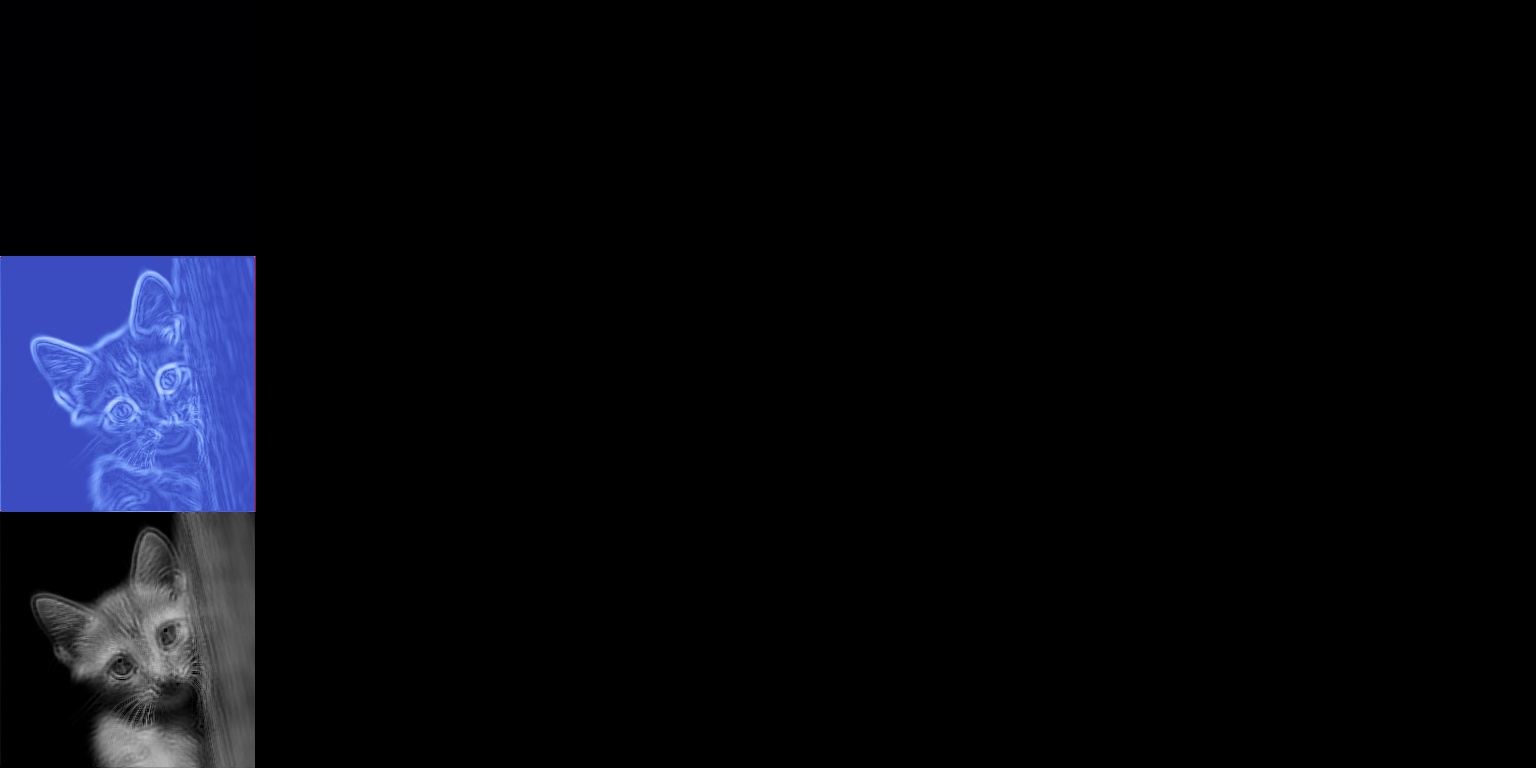
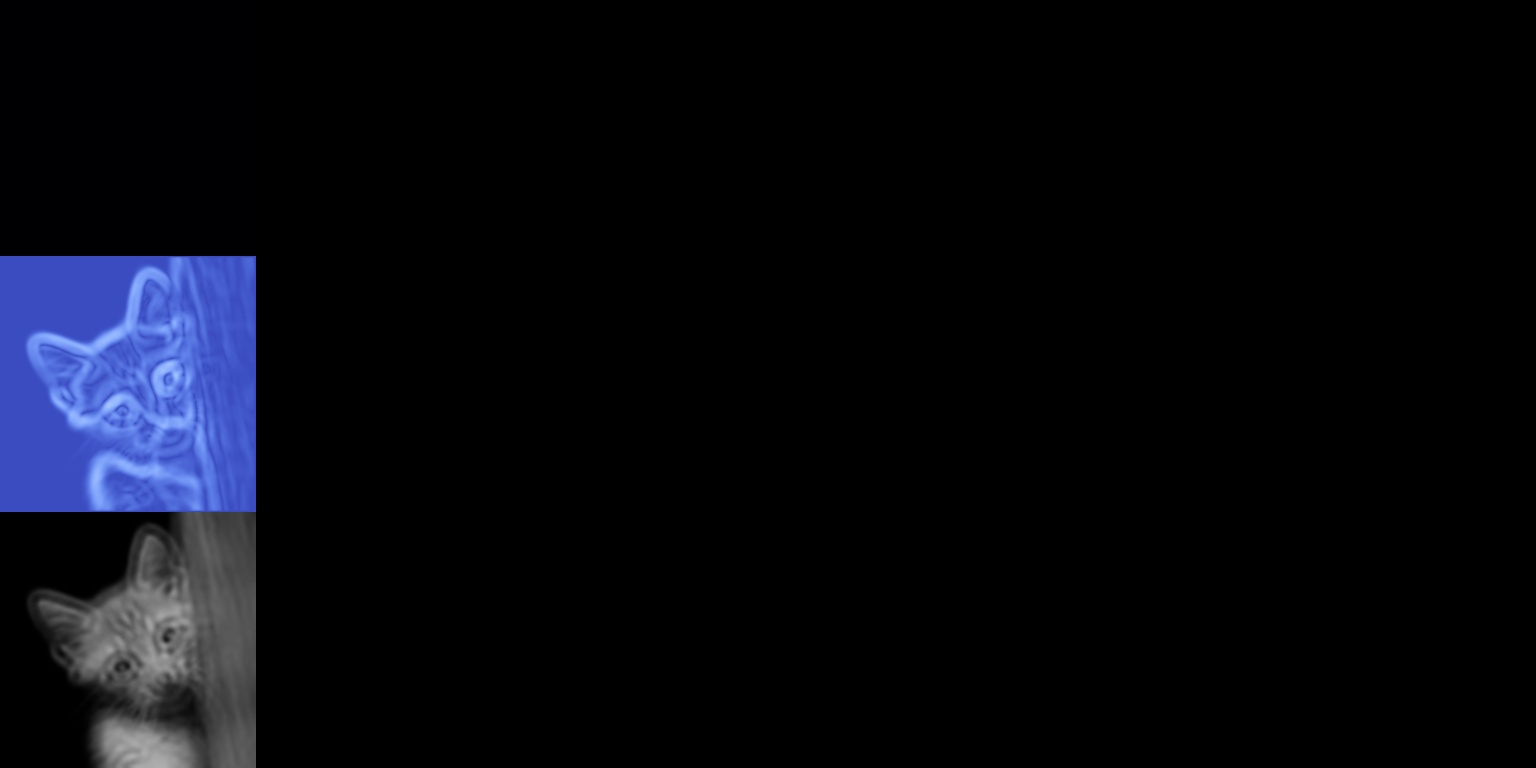
boundary_conditions_fix:rho_and_velocity_work

Changed region(s): [[0.0, 0.3438, 0.1562, 0.9375]]

diff --git a/numerical_solvers/solvers/LBM_NS_Solver.py b/numerical_solvers/solvers/LBM_NS_Solver.py
@@ -39,8 +39,8 @@ class LBM_NS_Solver(LBM_SolverBase):
             # self.Force.from_numpy(turb_numpy)
             
             # self.init_gaussian_force_field(1E-2, 0, 1)
-            self.apply_bb()
-            # self.apply_nee_bc()
+            # self.apply_bb()
+            self.apply_nee_bc()
             self.iterations_counter = self.iterations_counter +1
             # print(f"iterations: {iteration}")
             
@@ -62,16 +62,15 @@ class LBM_NS_Solver(LBM_SolverBase):
 
     @ti.kernel
     def collide_srt(self):
-        for i, j in ti.ndrange((1, self.nx - 2), (1, self.ny - 2)):
+        for i, j in ti.ndrange((1, self.nx - 1), (1, self.ny - 1)):
             for k in ti.static(range(9)):
                 feq = self.f_eq(i, j)
                 self.f_new[i, j][k] = (1 - self.omega_kin) * self.f[i, j][k] + feq[k] * self.omega_kin
     
 
-        
     @ti.kernel
     def collide_cm(self):
-        for i, j in ti.ndrange((1, self.nx - 2), (1, self.ny - 2)):
+        for i, j in ti.ndrange((1, self.nx - 1), (1, self.ny - 1)):
             # magnitude = 1E-12
             # noise =magnitude*get_gaussian_noise(0,1)
             
@@ -172,9 +171,12 @@ class LBM_NS_Solver(LBM_SolverBase):
     
     @ti.kernel
     def update_macro_var(self): 
-        for i, j in ti.ndrange(self.nx, self.ny):
+        for i, j in ti.ndrange((1, self.nx-1), (1,self.ny-1)):
+        # for i, j in ti.ndrange(self.nx, self.ny):
+
             self.rho[i, j] = 0
             self.vel[i, j] = 0, 0
+            # self.f[i,j] = self.f_new[i,j]
             for k in ti.static(range(9)):
                 self.rho[i, j] += self.f[i, j][k]
                 self.vel[i, j] += tm.vec2(self.e[k, 0], self.e[k, 1]) * self.f[i, j][k] 
@@ -184,17 +186,17 @@ class LBM_NS_Solver(LBM_SolverBase):
             
     @ti.kernel
     def apply_nee_bc(self):  # impose boundary conditions
-        for j in range(1, self.ny - 1):
-            self.apply_bc_core(0, j, 1, j) # left: ibc = 0; jbc = j; inb = 1; jnb = j
-            self.apply_bc_core(self.nx - 1, j, self.nx - 2, j) # right: ibc = nx-1; jbc = j; inb = nx-2; jnb = j
+        for j in range(1,self.ny-1):
+            self.apply_nee_bc_core(0, j, 1, j) # left: ibc = 0; jbc = j; inb = 1; jnb = j
+            self.apply_nee_bc_core(self.nx - 1, j, self.nx - 2, j) # right: ibc = nx-1; jbc = j; inb = nx-2; jnb = j
 
         for i in range(self.nx):
-            self.apply_bc_core(i, self.ny - 1, i, self.ny - 2) # top: ibc = i; jbc = ny-1; inb = i; jnb = ny-2
-            self.apply_bc_core(i, 0, i, 1) # bottom: ibc = i; jbc = 0; inb = i; jnb = 1
+            self.apply_nee_bc_core(i, self.ny - 1, i, self.ny - 2) # top: ibc = i; jbc = ny-1; inb = i; jnb = ny-2
+            self.apply_nee_bc_core(i, 0, i, 1) # bottom: ibc = i; jbc = 0; inb = i; jnb = 1
     
     @ti.func
     def apply_nee_bc_core(self, ibc, jbc, inb, jnb):
         #Non-Equilibrium Extrapolation method, see 5.3.4.3 p194, LBM: Principles and Practise, T. Kruger
         self.rho[ibc, jbc] = self.rho[inb, jnb]
-        self.f[ibc, jbc] = self.f_eq(ibc, jbc) - self.f_eq(inb, jnb) + self.f[inb, jnb]
+        self.f_new[ibc, jbc] = self.f_eq(ibc, jbc) - self.f_eq(inb, jnb) + self.f_new[inb, jnb]
         

diff --git a/numerical_solvers/visualization/taichi_lbm_gui.py b/numerical_solvers/visualization/taichi_lbm_gui.py
@@ -15,7 +15,7 @@ def run_with_gui(solver: LBM_NS_Solver, np_init_gray_image, iter_per_frame, show
     canvasPlotter = CanvasPlotter(solver, (1.0*np_init_gray_image.min(), 1.0*np_init_gray_image.max()))
     
     # warm up
-    solver.solve(iterations=5)   
+    solver.solve(iterations=10)   
     solver.iterations_counter=0 # reset counter
     img = canvasPlotter.make_frame()
     
@@ -32,9 +32,9 @@ def run_with_gui(solver: LBM_NS_Solver, np_init_gray_image, iter_per_frame, show
             canvasPlotter.is_rho_MSE_checked = gui.checkbox('plot rho MSE', canvasPlotter.is_rho_MSE_checked)
             canvasPlotter.is_rho_SSIM_checked = gui.checkbox('plot rho SSIM', canvasPlotter.is_rho_SSIM_checked)
             canvasPlotter.is_energy_MSE_checked = gui.checkbox('plot energy MSE', canvasPlotter.is_energy_MSE_checked)
+            canvasPlotter.is_energy_SSIM_checked = gui.checkbox('plot energy SSIM', canvasPlotter.is_energy_SSIM_checked)
             canvasPlotter.is_rho_diff_checked = gui.checkbox('rho difference', canvasPlotter.is_rho_diff_checked)
             canvasPlotter.is_energy_diff_checked = gui.checkbox('energy difference', canvasPlotter.is_energy_diff_checked)
-            canvasPlotter.is_energy_SSIM_checked = gui.checkbox('plot energy SSIM', canvasPlotter.is_energy_SSIM_checked)
             canvasPlotter.is_v_distribution_checked = gui.checkbox('plot 1D v distribution', canvasPlotter.is_v_distribution_checked)
             
             canvasPlotter.is_heatmap_checked = gui.checkbox('heatmap', canvasPlotter.is_heatmap_checked)
@@ -45,7 +45,9 @@ def run_with_gui(solver: LBM_NS_Solver, np_init_gray_image, iter_per_frame, show
         img = canvasPlotter.make_frame()
     
         canvas.set_image(img.astype(np.float32))
+        
         window.show()
         
-        # window.save_image(f'output/iteration_{solver.iterations_counter}.jpg')
+        # if solver.iterations_counter % 500 ==0:
+        #     window.save_image(f'output/iteration_{solver.iterations_counter}.jpg')
         

diff --git a/numerical_solvers/visualization/CanvasPlotter.py b/numerical_solvers/visualization/CanvasPlotter.py
@@ -327,9 +327,9 @@ class CanvasPlotter:
         
         if self.is_v_distribution_checked:
             #TODO: JJM get rid of this ugly hack
-            border = 2
-            vy = vy[border:-border,border:-border]
-            vx = vx[border:-border,border:-border]
+            # border = 2
+            # vy = vy[border:-border,border:-border]
+            # vx = vx[border:-border,border:-border]
             v_distribution_y = plot_v_component_distribution(vy, "v_y component distribution")
             v_distribution_rgba_y = cm.ScalarMappable().to_rgba(np.flip(np.transpose(v_distribution_y, (1, 0, 2)), axis=1)) 
             v_distribution_x = plot_v_component_distribution(vx, "v_x component distribution")

diff --git a/numerical_solvers/runners/taichi_lbm_NS_picture_diffuser.py b/numerical_solvers/runners/taichi_lbm_NS_picture_diffuser.py
@@ -74,8 +74,8 @@ if __name__ == '__main__':
         is_div_free = False)
     
     
-    niu = 1E-4 * 1./6
-    bulk_visc = 1E-4 * 1./6
+    niu = 1 * 1./6
+    bulk_visc = 1 * 1./6
     case_name="miau"   
     solver = LBM_NS_Solver(
         case_name,
@@ -110,7 +110,7 @@ if __name__ == '__main__':
 
     
     
-    run_with_gui(solver, np_gray_image, iter_per_frame=1)
+    run_with_gui(solver, np_gray_image, iter_per_frame=100)
 
 
 # %%
